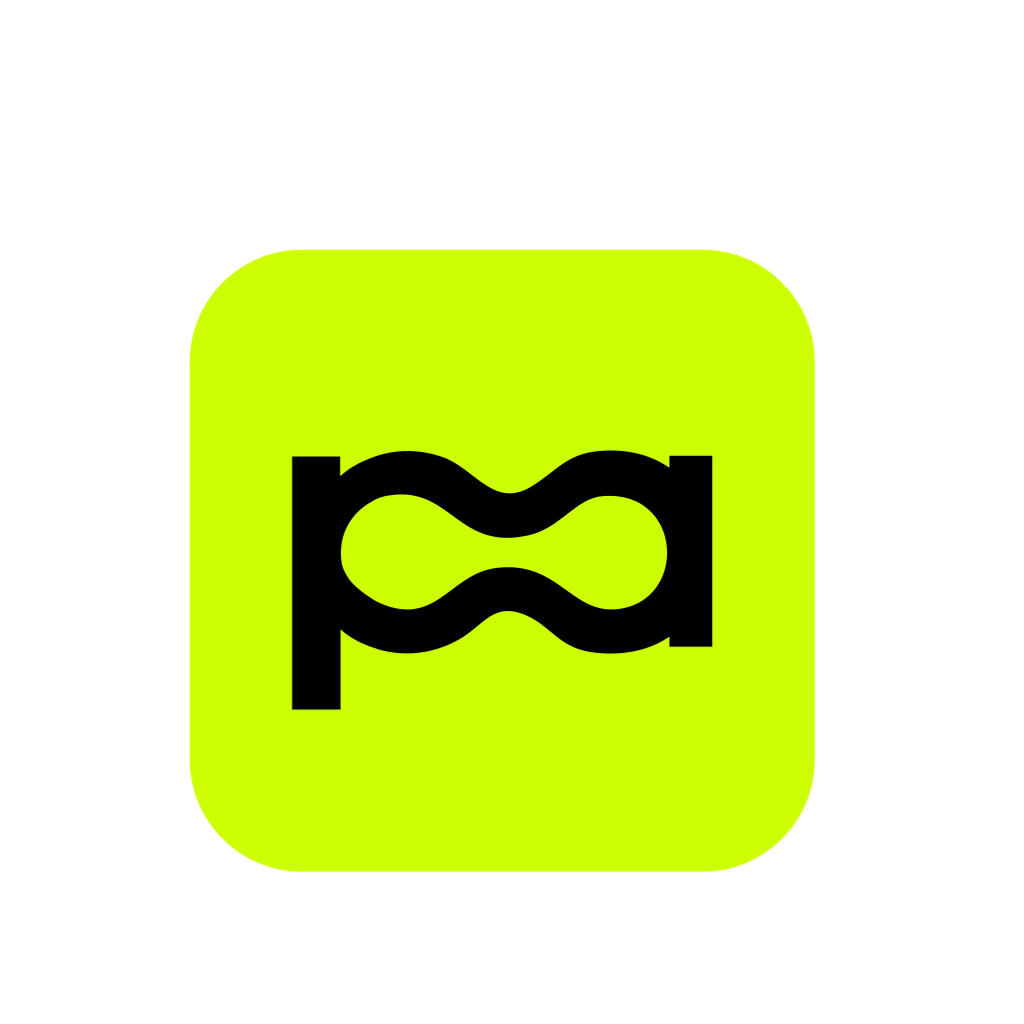
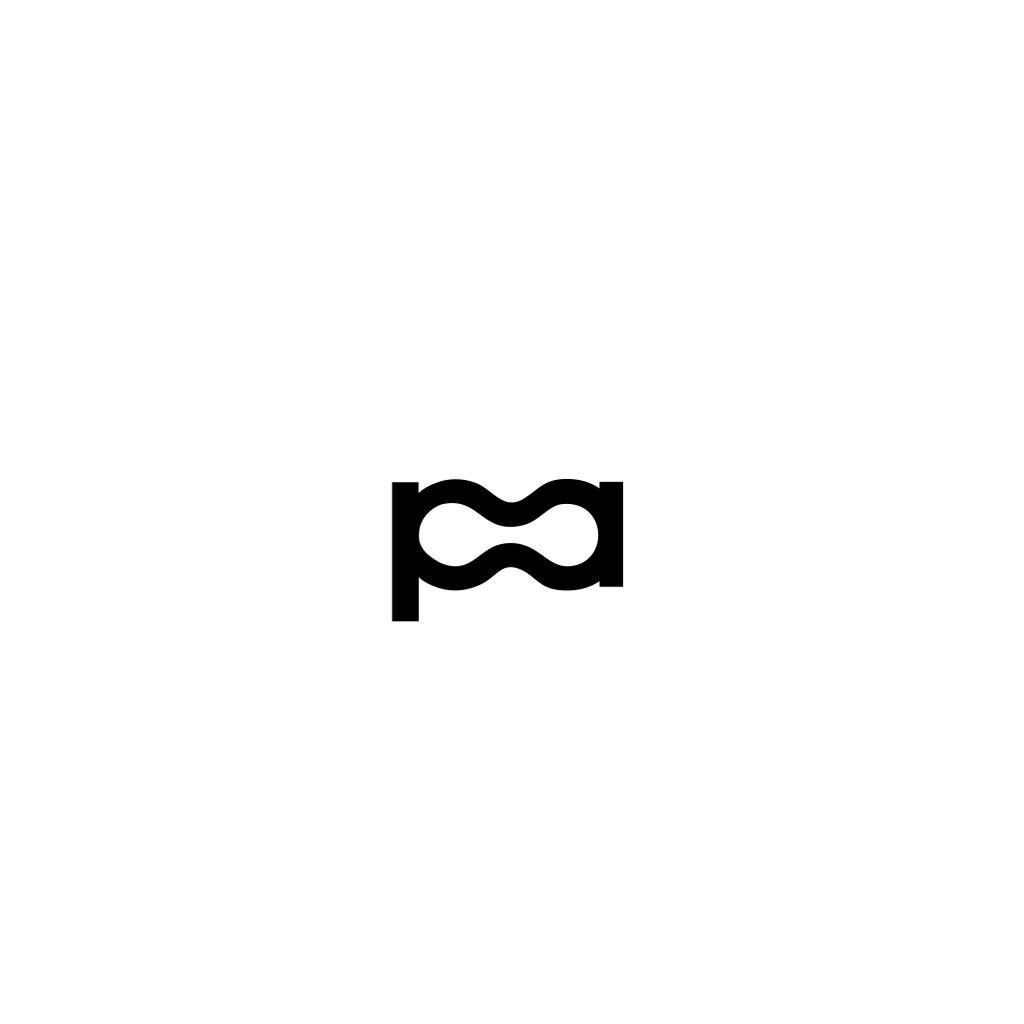
fix(mobile): icono chartreuse, crash del mapa y mensaje de login
Regenera iconos sin padding negro, saca MapView del FlatList y aclara el error cuando Render está dormido.

diff --git a/apps/mobile/src/components/reservar/ClubsMapView.tsx b/apps/mobile/src/components/reservar/ClubsMapView.tsx
@@ -1,11 +1,6 @@
 import FontAwesome from "@expo/vector-icons/FontAwesome";
-import { useEffect, useMemo, useRef } from "react";
+import { useEffect, useMemo, useRef, useState, type ComponentType } from "react";
 import { Platform, Pressable, Text, View } from "react-native";
-import MapView, {
-  Marker,
-  PROVIDER_DEFAULT,
-  type Region,
-} from "react-native-maps";
 
 import type { UserCoords } from "@/src/hooks/useUserLocation";
 import type { Club } from "@/src/types/club.types";
@@ -16,6 +11,13 @@ interface ClubsMapViewProps {
   selectedClubId?: string | null;
   onSelectClub?: (clubId: string) => void;
   height?: number;
+}
+
+interface Region {
+  latitude: number;
+  longitude: number;
+  latitudeDelta: number;
+  longitudeDelta: number;
 }
 
 const FALLBACK_REGION: Region = {
@@ -52,19 +54,41 @@ function buildRegion(
   const minLng = Math.min(...lngs);
   const maxLng = Math.max(...lngs);
 
-  const midLat = (minLat + maxLat) / 2;
-  const midLng = (minLng + maxLng) / 2;
-  const latDelta = Math.max((maxLat - minLat) * 1.6, 0.04);
-  const lngDelta = Math.max((maxLng - minLng) * 1.6, 0.04);
-
   return {
-    latitude: midLat,
-    longitude: midLng,
-    latitudeDelta: latDelta,
-    longitudeDelta: lngDelta,
+    latitude: (minLat + maxLat) / 2,
+    longitude: (minLng + maxLng) / 2,
+    latitudeDelta: Math.max((maxLat - minLat) * 1.6, 0.04),
+    longitudeDelta: Math.max((maxLng - minLng) * 1.6, 0.04),
   };
 }
 
+function MapFallback({
+  height,
+  message,
+}: {
+  height: number;
+  message: string;
+}) {
+  return (
+    <View
+      className="items-center justify-center overflow-hidden rounded-card border border-brand-border bg-brand-surface px-6"
+      style={{ height }}
+    >
+      <FontAwesome name="map-o" size={28} color="#CBFE01" />
+      <Text className="mt-3 text-center font-sans-semibold text-sm text-white">
+        {message}
+      </Text>
+      <Text className="mt-1 text-center font-sans text-xs text-brand-muted">
+        Podés elegir un club desde la lista.
+      </Text>
+    </View>
+  );
+}
+
+/**
+ * Mapa de clubes. Import dinámico de react-native-maps para evitar
+ * crash nativo al montar la pantalla si el módulo falla en el device.
+ */
 export function ClubsMapView({
   clubs,
   userCoords,
@@ -72,7 +96,36 @@ export function ClubsMapView({
   onSelectClub,
   height = 240,
 }: ClubsMapViewProps) {
-  const mapRef = useRef<MapView | null>(null);
+  const mapRef = useRef<{ animateToRegion: (r: Region, ms: number) => void } | null>(
+    null,
+  );
+  const [Maps, setMaps] = useState<{
+    MapView: ComponentType<Record<string, unknown>>;
+    Marker: ComponentType<Record<string, unknown>>;
+  } | null>(null);
+  const [mapFailed, setMapFailed] = useState(false);
+
+  useEffect(() => {
+    let cancelled = false;
+    void (async () => {
+      try {
+        const mod = await import("react-native-maps");
+        if (cancelled) return;
+        setMaps({
+          MapView: mod.default as ComponentType<Record<string, unknown>>,
+          Marker: mod.Marker as ComponentType<Record<string, unknown>>,
+        });
+      } catch (error) {
+        if (__DEV__) {
+          console.warn("[maps] No se pudo cargar react-native-maps:", error);
+        }
+        if (!cancelled) setMapFailed(true);
+      }
+    })();
+    return () => {
+      cancelled = true;
+    };
+  }, []);
 
   const markers = useMemo(
     () =>
@@ -92,28 +145,52 @@ export function ClubsMapView({
   );
 
   useEffect(() => {
-    if (!mapRef.current) return;
-    mapRef.current.animateToRegion(region, 400);
-  }, [region]);
+    if (!mapRef.current || mapFailed) return;
+    try {
+      mapRef.current.animateToRegion(region, 400);
+    } catch {
+      // ignore animate errors
+    }
+  }, [region, mapFailed]);
 
+  if (mapFailed) {
+    return <MapFallback height={height} message="Mapa no disponible" />;
+  }
+
+  if (!Maps) {
+    return (
+      <View
+        className="items-center justify-center overflow-hidden rounded-card border border-brand-border bg-brand-surface"
+        style={{ height }}
+      >
+        <Text className="font-sans text-sm text-brand-muted">Cargando mapa…</Text>
+      </View>
+    );
+  }
+
+  const { MapView, Marker } = Maps;
   const selected = markers.find((c) => c.id === selectedClubId) ?? null;
 
   return (
     <View
       className="overflow-hidden rounded-card border border-brand-border"
       style={{ height }}
+      collapsable={false}
     >
       <MapView
         ref={mapRef}
         style={{ flex: 1 }}
-        provider={PROVIDER_DEFAULT}
         initialRegion={region}
         showsUserLocation={Boolean(userCoords)}
         showsMyLocationButton={false}
         showsCompass={false}
         toolbarEnabled={false}
+        liteMode={Platform.OS === "android"}
         mapType={Platform.OS === "ios" ? "mutedStandard" : "standard"}
         userInterfaceStyle="dark"
+        onMapReady={() => {
+          // no-op: confirma que el mapa montó sin crash
+        }}
       >
         {markers.map((club) => {
           const isSelected = club.id === selectedClubId;

diff --git a/apps/mobile/app/reservar/nueva.tsx b/apps/mobile/app/reservar/nueva.tsx
@@ -60,65 +60,70 @@ export default function ReservarNuevaScreen() {
         <ScreenHeader title="Reservar cancha" />
       </View>
 
+      {/*
+        El mapa NO va dentro del FlatList: en Android MapView como
+        ListHeaderComponent suele crashear la app nativamente.
+      */}
+      <View className="gap-4 px-6 pb-2">
+        <View className="flex-row items-center gap-2">
+          <View className="flex-1 flex-row items-center gap-2 rounded-full border border-brand-border bg-brand-surface px-4 py-3">
+            <FontAwesome name="search" size={16} color="#8A8A8A" />
+            <TextInput
+              value={search}
+              onChangeText={setSearch}
+              onSubmitEditing={onSearchSubmit}
+              placeholder="Buscar canchas cerca tuyo"
+              placeholderTextColor="#8A8A8A"
+              returnKeyType="search"
+              className="flex-1 font-sans text-base text-white"
+            />
+          </View>
+          <Pressable
+            onPress={onSearchSubmit}
+            className="h-12 w-12 items-center justify-center rounded-full border border-brand-border bg-brand-surface active:opacity-80"
+          >
+            <FontAwesome name="sliders" size={18} color="#CBFE01" />
+          </Pressable>
+        </View>
+
+        <ClubsMapView
+          clubs={clubes}
+          userCoords={coords}
+          selectedClubId={selectedClubId}
+          onSelectClub={(id) => {
+            if (selectedClubId === id) {
+              irAClub(id);
+              return;
+            }
+            setSelectedClubId(id);
+          }}
+          height={260}
+        />
+
+        <View className="flex-row items-center justify-between">
+          <Text className="font-sans-bold text-lg text-white">
+            Canchas cercanas
+          </Text>
+          <Text className="font-sans text-sm text-brand-muted">
+            {disponiblesCount || clubes.length} disponibles
+          </Text>
+        </View>
+
+        {error ? (
+          <Text className="font-sans text-sm text-red-400">{error}</Text>
+        ) : null}
+      </View>
+
       <FlatList
         data={loading ? [] : clubes}
         keyExtractor={(item) => item.id}
+        style={{ flex: 1 }}
         contentContainerStyle={{
           paddingHorizontal: 24,
           paddingBottom: insets.bottom + 24,
           gap: 12,
         }}
-        ListHeaderComponent={
-          <View className="gap-4 pb-2">
-            <View className="flex-row items-center gap-2">
-              <View className="flex-1 flex-row items-center gap-2 rounded-full border border-brand-border bg-brand-surface px-4 py-3">
-                <FontAwesome name="search" size={16} color="#8A8A8A" />
-                <TextInput
-                  value={search}
-                  onChangeText={setSearch}
-                  onSubmitEditing={onSearchSubmit}
-                  placeholder="Buscar canchas cerca tuyo"
-                  placeholderTextColor="#8A8A8A"
-                  returnKeyType="search"
-                  className="flex-1 font-sans text-base text-white"
-                />
-              </View>
-              <Pressable
-                onPress={onSearchSubmit}
-                className="h-12 w-12 items-center justify-center rounded-full border border-brand-border bg-brand-surface active:opacity-80"
-              >
-                <FontAwesome name="sliders" size={18} color="#CBFE01" />
-              </Pressable>
-            </View>
-
-            <ClubsMapView
-              clubs={clubes}
-              userCoords={coords}
-              selectedClubId={selectedClubId}
-              onSelectClub={(id) => {
-                if (selectedClubId === id) {
-                  irAClub(id);
-                  return;
-                }
-                setSelectedClubId(id);
-              }}
-              height={260}
-            />
-
-            <View className="flex-row items-center justify-between">
-              <Text className="font-sans-bold text-lg text-white">
-                Canchas cercanas
-              </Text>
-              <Text className="font-sans text-sm text-brand-muted">
-                {disponiblesCount || clubes.length} disponibles
-              </Text>
-            </View>
-
-            {error ? (
-              <Text className="font-sans text-sm text-red-400">{error}</Text>
-            ) : null}
-          </View>
-        }
+        removeClippedSubviews={false}
         renderItem={({ item }) => (
           <ClubNearCard
             club={item}

diff --git a/apps/mobile/src/services/perfil.ts b/apps/mobile/src/services/perfil.ts
@@ -28,7 +28,7 @@ interface LoginApiBody {
 function getErrorMessage(error: unknown, fallback: string): string {
   if (isAxiosError(error)) {
     if (!error.response) {
-      return "No se pudo conectar con el servidor. Verificá que la API esté corriendo en el puerto 4000 y que el celular esté en la misma red Wi‑Fi.";
+      return "El servidor no responde. Puede estar iniciando; esperá unos segundos e intentá de nuevo.";
     }
     const data = error.response.data as
       | { error?: string; message?: string; mensaje?: string }

diff --git a/apps/mobile/src/services/api.ts b/apps/mobile/src/services/api.ts
@@ -11,7 +11,8 @@ if (__DEV__) {
 
 export const api = axios.create({
   baseURL: API_URL,
-  timeout: 20000,
+  // Render free tier puede tardar ~50s en despertar del sleep.
+  timeout: 60000,
 });
 
 api.interceptors.request.use(async (config) => {
